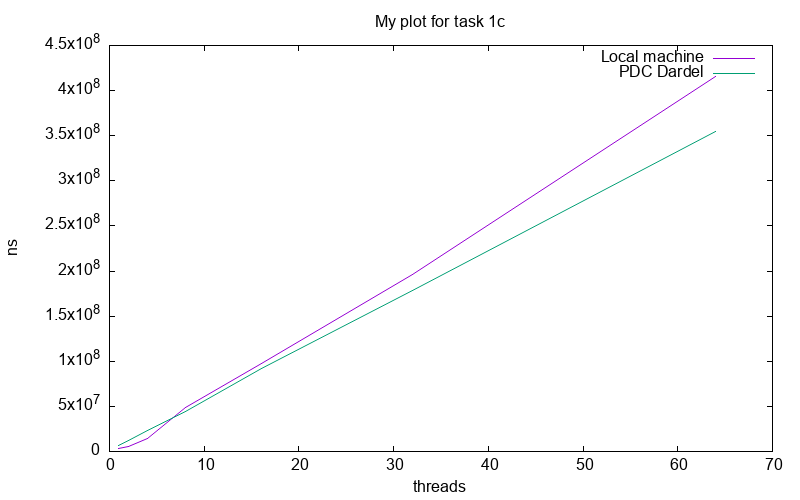
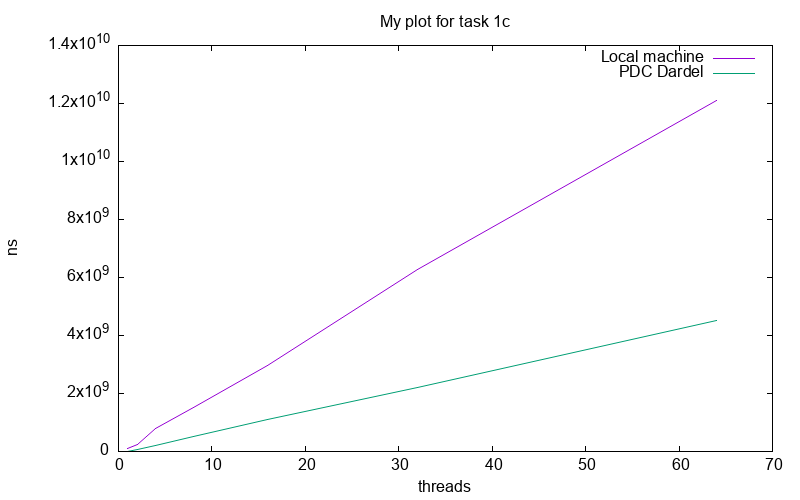
lab Task 1C

diff --git a/lab1-skel/task1/MainC.java b/lab1-skel/task1/MainC.java
@@ -3,21 +3,23 @@ public class MainC {
 	static volatile int a;
 
 	public static class Incrementer implements Runnable {
-		public synchronized void run() {
+		public void run() {
 			for (int i = 0; i < 1_000_000; i++) {
-				a++;
+				synchronized (this) {
+					a++;
+				}
 			}
 		}
 	}
 
 	static long run_experiment(int n) {
 
-		long startTime = System.nanoTime();
-
 		/* ----------- task1b  ----------- */
 		Thread ts[] = new Thread[n];
 
 		Runnable task1 = new Incrementer();
+
+		long startTime = System.nanoTime();
 
 		for (int i = 0; i < n; i++) {
 			ts[i] = new Thread(task1);
@@ -41,13 +43,16 @@ public class MainC {
 	}
 
 	public static void main(String[] args) {
-		int x = 2;
+		int x = 1;
 		int y = 1;
 
-		if (args.length > 0) {
+		if (args.length > 1) {
 			x = Integer.parseInt(args[0]);
 			y = Integer.parseInt(args[1]);
 		}
+
+		// System.out.println(x);
+		// System.out.println(y);
 
 		for (int n = 1; n <= 64; n *= 2) {
 			for (int i = 0; i < x; i++) {
@@ -55,13 +60,27 @@ public class MainC {
 			}
 
 			long time = 0;
-			for (int i = 0; i < y; i++) {
-				time += run_experiment(n);
-			}
-			time = time / (long) y;
 
+			/* Standard Deviation */
+			// https://www.baeldung.com/java-calculate-standard-deviation 
+
+			long nums[] = new long[y];
+			for (int i = 0; i < y; i++) {
+				nums[i] = run_experiment(n);
+				time += nums[i];
+			}
+			double mean = (double) time / y; // mean
+
+			double squareds = 0.0;
+			double standardDeviation = 0.0;
+
+			for (long num : nums) {
+				squareds += Math.pow(num - mean, 2);
+			}
+
+			standardDeviation = Math.sqrt(squareds / y);
 			// System.out.println("time(ms): " + time);
-			System.out.println(n + "  " + time);
+			System.out.println(n + "  " + time + "   " + standardDeviation);
 		}
 	}
 }

diff --git a/lab1-skel/task1/MainB.java b/lab1-skel/task1/MainB.java
@@ -3,9 +3,11 @@ public class MainB {
 	static volatile int a;
 
 	public static class Incrementer implements Runnable {
-		public synchronized void run() {
+		public void run() {
 			for (int i = 0; i < 1_000_000; i++) {
-				a++;
+				synchronized (this) {
+					a++;
+				}
 			}
 		}
 	}
